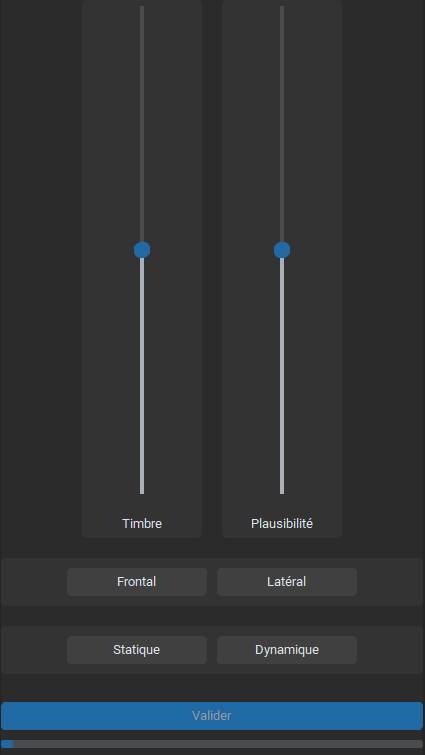
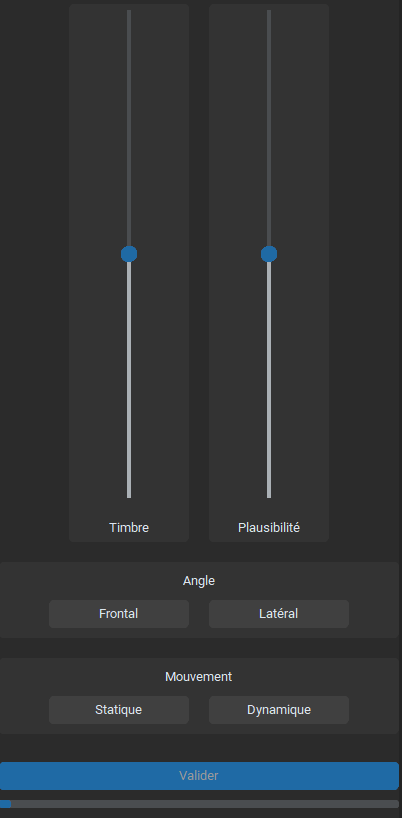
add labels to direct questions

diff --git a/src/view/ratings_view.py b/src/view/ratings_view.py
@@ -25,7 +25,7 @@ class Rating(ctk.CTkFrame):
         self.slider.set(.5)
 
 class DirectQuestion(ctk.CTkFrame):
-    def __init__(self, master, choices: tuple, name: str, answer_callback: callable, answers: tuple):
+    def __init__(self, master, choices: tuple, name: str, displayed_name: str, answer_callback: callable, answers: tuple):
         super().__init__(master)
 
         self.name = name
@@ -35,13 +35,17 @@ class DirectQuestion(ctk.CTkFrame):
         self.answer = None
 
         self.columnconfigure((0,3), weight = 1)
+
+        self.displayed_name = ctk.CTkLabel(master = self, text = displayed_name)
+        self.displayed_name.grid_configure(row = 0, column = 1, columnspan = 2, padx = 10, pady = 5, sticky = 'new')
         
         self.choice_1 = ctk.CTkButton(master = self, text = self.choices[0])
-        self.choice_1.grid_configure(row = 0, column = 1, padx = (10,0), pady = 10, sticky = 'nw')
+        self.choice_1.grid_configure(row = 1, column = 1, padx = 10, pady = (0,10), sticky = 'nw')
 
         self.choice_2 = ctk.CTkButton(master = self, text = self.choices[1])
-        self.choice_2.grid_configure(row = 0, column = 2, padx = 10, pady = 10, sticky = 'ne')
+        self.choice_2.grid_configure(row = 1, column = 2, padx = 10, pady = (0,10), sticky = 'ne')
 
+        
         self.choice_buttons = (self.choice_1, self.choice_2)
 
         for index, button in enumerate(self.choice_buttons):
@@ -93,11 +97,11 @@ class RatingsView(ctk.CTkFrame):
         self.plausibility_rating = Rating(master = self, attribute_name = 'Plausibilité')
         self.plausibility_rating.grid_configure(row = 1, column = 2, padx = 20, pady = (10,0), sticky = 'new')
 
-        self.angle_direct_question = DirectQuestion(master = self, choices = ('Frontal', 'Latéral'), name = 'angle', answers = ('Front', 'Side'), answer_callback = self.check_all_direct_questions_answered)
+        self.angle_direct_question = DirectQuestion(master = self, choices = ('Frontal', 'Latéral'), name = 'angle', displayed_name = 'Angle', answers = ('Front', 'Side'), answer_callback = self.check_all_direct_questions_answered)
         self.angle_direct_question.grid_configure(row = 2, column = 0, columnspan = 4, padx = 0, pady = (20,0), sticky = 'new')
         self.direct_questions.append(self.angle_direct_question)
 
-        self.movement_direct_question = DirectQuestion(master = self, choices = ('Statique', 'Dynamique'), name = 'movement', answers = (False, True), answer_callback = self.check_all_direct_questions_answered)
+        self.movement_direct_question = DirectQuestion(master = self, choices = ('Statique', 'Dynamique'), name = 'movement', displayed_name = 'Mouvement', answers = (False, True), answer_callback = self.check_all_direct_questions_answered)
         self.movement_direct_question.grid_configure(row = 3, column = 0, columnspan = 4, padx = 0, pady = (20,0), sticky = 'new')
         self.direct_questions.append(self.movement_direct_question)
 
